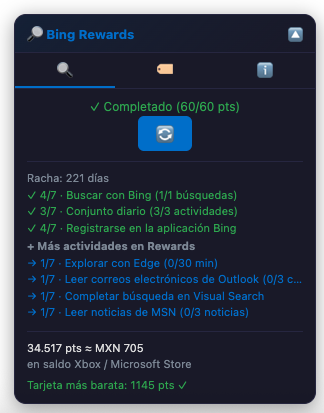
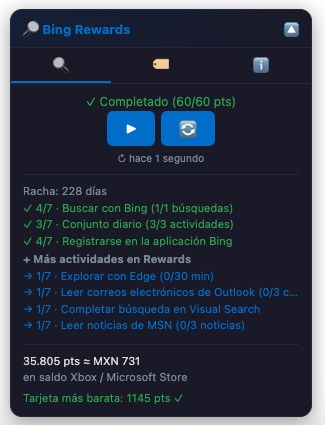
fix(bing-rewards-auto-search): relectura al recargar, edad del dato y salida manual del día completo — bump 1.3.4 -> 1.3.5
Cuatro fallos que juntos dejaban el panel clavado en «✓ Completado» sin
salida, sobre todo en el móvil:

- Recargar a mano y pulsar ▶ o 🔄 no releían si el snapshot tenía menos de
  cinco minutos. Un clic y una recarga son órdenes, no consultas, así que
  ahora releen siempre; el TTL sigue gobernando la navegación normal, que
  es para lo que existe.
- Un fetch fallido se guardaba como snapshot: satisfacía el TTL —bloqueando
  los reintentos cinco minutos— y tiraba el progreso bueno del día. Ahora
  writeSnapshot descarta lo que no venga con ok.
- El contador de puntos BAJANDO se contaba como atasco. Es Rewards
  estrenando su día: ninguna búsqueda podía superar la referencia de ayer,
  así que todas contaban, se gastaban las tres esperas y el panel avisaba
  en rojo siendo falso.
- El estado completado solo ofrecía 🔄, que releía el mismo «completo».
  Ahora ofrece también ▶: N búsquedas más contadas desde ahí, con N el
  número manual, sin tocar el conteo del día y caducando a medianoche. En
  forzado no se cuentan atascos, que ahí el contador quieto es lo esperable.

Y la edad del dato visible bajo los botones («↻ hace 12 segundos»), que es
la única forma de distinguir caché de dato fresco donde no hay consola.
Sale de Intl.RelativeTimeFormat, así que no añade ninguna cadena al
diccionario de 22 idiomas.

Changed region(s): [[0.0309, 0.0, 0.9877, 0.9879], [0.7716, 0.1162, 0.8642, 0.2034], [0.463, 0.1162, 0.5556, 0.2034]]

diff --git a/bing-rewards-auto-search.user.js b/bing-rewards-auto-search.user.js
@@ -1,7 +1,7 @@
 // ==UserScript==
 // @name         Bing Rewards Auto Search
 // @namespace    https://www.bing.com/
-// @version      1.3.4
+// @version      1.3.5
 // @description  Runs only the Bing searches you still need today: reads your Microsoft Rewards progress, does just the missing ones, stops when the day is complete, and shows what your points are worth in Xbox credit. Waits out late crediting and links the other daily tasks. Queries from your own keywords, rotating search types (70% web plus images, videos, shopping, news), 3-10s delays with 10-25s reading pauses, 22 languages. USE AT YOUR OWN RISK: automating activity may violate the Microsoft Rewards terms.
 // @author       g31w0fw0rld
 // @license      MIT
@@ -15,7 +15,7 @@
 (function () {
     'use strict';
 
-    const SCRIPT_VERSION = '1.3.4';
+    const SCRIPT_VERSION = '1.3.5';
 
     // =============================================
     // INTERNACIONALIZACION (i18n)
@@ -1263,6 +1263,11 @@
     const KEY_SEEN_POINTS = 'bing-rewards-seen-points';
     const KEY_STALL = 'bing-rewards-stall';
     const KEY_STALL_RETRY = 'bing-rewards-stall-retry';
+    // Búsquedas forzadas: la salida de mano cuando Rewards dice que el día está
+    // completo y el usuario sabe que no. Guarda el día —para que caduque solo—
+    // y el contador desde el que se forzó, que es lo que hace que ▶ signifique
+    // «busca otras N» y no «vuelve a empezar»: el contador del día no se toca.
+    const KEY_FORCE = 'bing-rewards-force';
 
     // Tope absoluto de búsquedas por día. En modo automático quien manda es la
     // API, pero si su contador se quedara congelado el bucle no tendría freno,
@@ -1363,7 +1368,20 @@
             GM_setValue(KEY_SEEN_POINTS, -1);
             GM_setValue(KEY_STALL, 0);
             GM_setValue(KEY_STALL_RETRY, 0);
+            // Forzar es cosa de un día: mañana vuelve a mandar Rewards.
+            GM_setValue(KEY_FORCE, null);
         }
+    }
+
+    /**
+     * ¿Hay búsquedas forzadas a mano HOY? Devuelve desde qué cuenta se forzó,
+     * o null. El día se comprueba aquí y no solo en `checkDailyReset` porque una
+     * pestaña abierta desde ayer no pasa por el reseteo hasta que se recarga.
+     * @returns {{day:string,from:number}|null}
+     */
+    function getForce() {
+        const f = GM_getValue(KEY_FORCE, null);
+        return (f && typeof f === 'object' && f.day === getToday()) ? f : null;
     }
 
     /**
@@ -1857,6 +1875,13 @@
     }
 
     function writeSnapshot(s) {
+        // Un fallo de red NO se guarda. Guardarlo hacía dos daños a la vez:
+        // satisfacía el TTL —o sea que bloqueaba los reintentos cinco minutos,
+        // y en el móvil el timeout de 8 s se agota con mucha más facilidad— y
+        // tiraba el progreso bueno del día, dejando el panel en modo manual sin
+        // más síntoma que un aviso gris. Sin guardarlo, la siguiente carga
+        // vuelve a encontrar el último dato bueno y lo relee en cuanto caduque.
+        if (!s || !s.ok) return;
         GM_setValue(KEY_SNAPSHOT, s);
     }
 
@@ -1871,11 +1896,37 @@
      * teléfono mostraba el estado del día anterior —racha, saldo y conjunto
      * diario incluidos— con el escritorio marcando 12/60 pendientes en el mismo
      * momento.
+     *
+     * Y no sirve tampoco si el último intento falló: guardar el fallo dejaba el
+     * panel en modo manual y sin reintentar hasta que caducara el TTL (ver
+     * `writeSnapshot`).
      * @returns {boolean}
      */
     function snapshotStale() {
-        return !rewards || rewards.day !== getToday() ||
+        return !rewards || !rewards.ok || rewards.day !== getToday() ||
             (Date.now() - rewards.at) > SNAPSHOT_TTL;
+    }
+
+    /**
+     * ¿La página se cargó porque el usuario la recargó a mano (F5, tirar hacia
+     * abajo en el móvil)?
+     *
+     * Eso es una ORDEN de releer, no una consulta, así que no puede mirar el
+     * TTL: recargar era justamente lo que el usuario hacía para salir de un
+     * «✓ Completado» heredado, y no servía de nada. Navegar por Bing sí sigue
+     * mirándolo, que es para lo que existe —si no, sería una petición por
+     * página—.
+     * @returns {boolean}
+     */
+    function reloadedByHand() {
+        try {
+            const nav = performance.getEntriesByType('navigation')[0];
+            if (nav) return nav.type === 'reload';
+            // Safari viejo (iOS < 15) no trae la entrada de navegación; el API
+            // obsoleto sigue ahí y para esto vale igual (1 === TYPE_RELOAD).
+            if (performance.navigation) return performance.navigation.type === 1;
+        } catch (e) { /* sin dato, se sigue mirando el TTL */ }
+        return false;
     }
 
     // =============================================
@@ -2014,6 +2065,20 @@
     function trackProgress(snap) {
         if (!snap || !snap.ok || !snap.search) return;
         const seen = GM_getValue(KEY_SEEN_POINTS, -1);
+        // El contador BAJANDO no es un atasco: es Rewards estrenando su día.
+        // Y no rueda a la medianoche local, sino con el reloj de Microsoft, así
+        // que basta con abrir Bing en esa franja para que la referencia se
+        // quede con los 60 puntos de ayer. A partir de ahí NINGUNA búsqueda del
+        // día puede superarla —el máximo es justo ese 60—, con lo que todas
+        // contaban como atasco: a la quinta se gastaban las tres esperas de
+        // medio minuto y el resto del día el panel avisaba en rojo de que Bing
+        // había dejado de acreditar, siendo falso.
+        if (snap.search.progress < seen) {
+            GM_setValue(KEY_SEEN_POINTS, snap.search.progress);
+            GM_setValue(KEY_STALL, 0);
+            GM_setValue(KEY_STALL_RETRY, 0);
+            return;
+        }
         if (snap.search.progress > seen) {
             GM_setValue(KEY_SEEN_POINTS, snap.search.progress);
             GM_setValue(KEY_STALL, 0);
@@ -2022,9 +2087,15 @@
             // siguiente. Sin esto, tres retrasos sueltos a lo largo del día se
             // sumarían y el tercero pararía la sesión sin motivo.
             GM_setValue(KEY_STALL_RETRY, 0);
-        } else if (seen >= 0 && GM_getValue(KEY_ACTIVE, false)) {
+        } else if (seen >= 0 && GM_getValue(KEY_ACTIVE, false) && !getForce()) {
             // Solo cuenta como atasco mientras se busca: con el panel parado es
             // normal que el contador no se mueva entre cargas.
+            //
+            // Y tampoco en forzado, donde el contador quieto no es un atasco
+            // sino lo esperable: el día está completo y por eso se forzó. Sin
+            // esta condición, una sesión pedida a mano se llevaba tres esperas
+            // de medio minuto y un aviso en rojo de que Bing dejó de acreditar,
+            // que ahí es cierto y no le sirve de nada a quien ya lo sabe.
             GM_setValue(KEY_STALL, GM_getValue(KEY_STALL, 0) + 1);
         }
     }
@@ -2048,6 +2119,14 @@
         // solo cambia el ritmo (una espera para releer) y pinta el aviso. Lo
         // único que detiene la sesión sola es completar el día o el tope de
         // seguridad de arriba.
+        // Forzado a mano: manda el número manual y NO el `complete` de la API,
+        // que es justo lo que se está sorteando. Se cuenta desde donde se forzó,
+        // así que son N búsquedas más y no N en total.
+        const forced = getForce();
+        if (forced) {
+            return (count - forced.from) >= getTotal()
+                ? { go: false, reason: 'done' } : { go: true, reason: '' };
+        }
         if (usingApi()) {
             return rewards.search.complete ? { go: false, reason: 'done' } : { go: true, reason: '' };
         }
@@ -2675,6 +2754,15 @@
             color: colors.gray, display: 'none'
         });
 
+        // Cuarta línea: la edad del dato de Rewards. En el móvil no hay
+        // consola, así que es la única forma de contestar «¿esto es de ahora o
+        // es la caché?» —la pregunta que dejó el panel clavado en 60/60—.
+        const ageText = document.createElement('div');
+        Object.assign(ageText.style, {
+            marginTop: '6px', textAlign: 'center', fontSize: '10px',
+            color: colors.gray, display: 'none'
+        });
+
         const btnRow = document.createElement('div');
         Object.assign(btnRow.style, {
             display: 'flex', gap: '6px', justifyContent: 'center'
@@ -2697,17 +2785,18 @@
         }
 
         /**
-         * Corre `next` con el progreso del día ya releído, si el que hay en
-         * memoria no sirve para decidir (ver snapshotStale).
+         * Corre `next` con el progreso del día ya releído.
          *
          * Lo usan los DOS botones con los que el usuario reconsidera el día, y
-         * hacen falta los dos: en el estado «completado» el panel no ofrece ▶,
-         * solo 🔄, así que sin esto de un «completado» heredado de ayer no se
-         * sale más que recargando la página. Releer no gasta una búsqueda.
+         * releen SIEMPRE, sin mirar el TTL: un clic es una orden. Mirándolo, de
+         * un «✓ Completado» heredado no se salía durante los cinco minutos
+         * siguientes —el estado completado no ofrece ▶, solo 🔄, y 🔄 repintaba
+         * la misma caché—, que es el mismo encierro de 1.3.4 con otra cerradura.
+         * Releer no gasta una búsqueda.
          * @param {function} next
          */
         function withFreshRewards(next) {
-            if (!getAuto() || !snapshotStale()) { next(); return; }
+            if (!getAuto()) { next(); return; }
             requestRewards().then((snap) => {
                 rewards = snap;
                 writeSnapshot(snap);
@@ -2732,6 +2821,28 @@
             });
         }
 
+        /**
+         * Arranca una sesión saltándose el «completado» de Rewards: N búsquedas
+         * más contadas desde ahora, con N el número manual de la pestaña ⚙.
+         *
+         * Releer primero no sobra: casi siempre el «completado» es de verdad y
+         * el usuario está viendo dato viejo, y en ese caso lo que quiere es el
+         * dato bueno, no gastar veinte búsquedas. Si tras releer sigue completo,
+         * el ▶ que pulsó ya dejó el forzado puesto y la sesión sale igual.
+         */
+        function forceSession() {
+            withFreshRewards(() => {
+                GM_setValue(KEY_FORCE, { day: getToday(), from: GM_getValue(KEY_COUNT, 0) });
+                // Forzar es soltar todos los frenos del día, como reiniciar: si
+                // quedó marcado como atascado, el primer paso serían tres
+                // esperas de medio minuto antes de buscar nada.
+                GM_setValue(KEY_STALL, 0);
+                GM_setValue(KEY_STALL_RETRY, 0);
+                GM_setValue(KEY_ACTIVE, true);
+                executeNextSearch(updateUI);
+            });
+        }
+
         /** Detiene la sesión activa. */
         function stopSession() {
             GM_setValue(KEY_ACTIVE, false);
@@ -2748,10 +2859,31 @@
             // reintentos, que si no el primer atasco pararía la sesión en seco.
             GM_setValue(KEY_STALL, 0);
             GM_setValue(KEY_STALL_RETRY, 0);
+            // Y el forzado, que si no el contador a cero se leería contra el
+            // punto desde el que se forzó y el panel arrancaría en negativo.
+            GM_setValue(KEY_FORCE, null);
             if (searchTimeout) clearTimeout(searchTimeout);
-            // Reiniciar es también la única salida del estado «completado», que
-            // es donde un dato viejo encierra al panel: de ahí la relectura.
+            // Reiniciar vuelve a poner a Rewards al mando, así que relee: es el
+            // camino de vuelta del forzado al automático.
             withFreshRewards(() => updateUI(0, false, ''));
+        }
+
+        /**
+         * Edad del dato de Rewards, en el idioma del panel y SIN cadenas nuevas:
+         * Intl.RelativeTimeFormat ya sabe decir «hace 12 segundos» en los 22
+         * idiomas del script, así que esto no pasa por el diccionario.
+         * @param {number} at - Sello del snapshot (Date.now() de su lectura).
+         */
+        function ago(at) {
+            const secs = Math.max(0, Math.round((Date.now() - at) / 1000));
+            const [n, unit] = secs < 60 ? [secs, 'second']
+                : secs < 3600 ? [Math.round(secs / 60), 'minute']
+                : [Math.round(secs / 3600), 'hour'];
+            try {
+                return new Intl.RelativeTimeFormat(LANG, { numeric: 'auto' }).format(-n, unit);
+            } catch (e) {
+                return `-${n} ${unit}`;
+            }
         }
 
         /** Números con el separador de miles del idioma del panel. */
@@ -2776,17 +2908,32 @@
          */
         function updateUI(count, active, reason) {
             btnRow.innerHTML = '';
-            const api = usingApi();
+            // Forzado se pinta como el modo manual: lo que gobierna es el número
+            // de búsquedas, no los puntos. Enseñar «60/60 pts» mientras busca a
+            // propósito por encima de eso, con un estimado de «~0 restantes»,
+            // sería el panel contradiciéndose a sí mismo.
+            const forced = getForce();
+            const api = usingApi() && !forced;
             const s = api ? rewards.search : null;
             const total = getTotal();
-            const done = api ? s.complete : count >= total;
-            const progress = api ? `${fmt(s.progress)}/${fmt(s.max)} ${t.pointsShort}` : `${count}/${total}`;
+            const local = count - (forced ? forced.from : 0);
+            const done = api ? s.complete : local >= total;
+            const progress = api ? `${fmt(s.progress)}/${fmt(s.max)} ${t.pointsShort}` : `${local}/${total}`;
 
             hintText.style.display = 'none';
             // Por setTipText y no por `title` directo: este repintado corre en cada
             // búsqueda y puede pillar el ratón encima de la pista, con su aviso ya
             // abierto (ver la sección TOOLTIP PROPIO).
             setTipText(hintText, '');
+
+            // Va antes de cualquier return de esta función: el estado que más
+            // necesita saber la edad del dato es justo el que corta arriba.
+            if (rewards && rewards.ok) {
+                ageText.textContent = `↻ ${ago(rewards.at)}`;
+                ageText.style.display = 'block';
+            } else {
+                ageText.style.display = 'none';
+            }
 
             /** Aviso bajo el progreso: estimado si sigue, motivo si paró. */
             function hint(text, tip, color) {
@@ -2808,6 +2955,13 @@
             if (done) {
                 statusText.textContent = `✓ ${t.completed} (${progress})`;
                 statusText.style.color = colors.green;
+                // ▶ TAMBIÉN en completado, y es la única salida de mano que hay
+                // cuando Rewards dice que el día está hecho y el usuario sabe
+                // que no: antes el estado terminal solo ofrecía 🔄, que releía
+                // el mismo «completo» y volvía aquí. Reutiliza la etiqueta y el
+                // aviso de ▶ a propósito, para no meter una cadena nueva en los
+                // 22 idiomas por un botón que hace lo mismo que dice: buscar.
+                btnRow.appendChild(createActionBtn(t.start, t.startTooltip, colors.primary, forceSession));
                 btnRow.appendChild(createActionBtn(t.restart, t.restartTooltip, colors.primary, restartCounter));
             } else if (active) {
                 statusText.textContent = `${t.searching}... ${progress}`;
@@ -3084,6 +3238,7 @@
         searchTab.pane.appendChild(statusText);
         searchTab.pane.appendChild(hintText);
         searchTab.pane.appendChild(btnRow);
+        searchTab.pane.appendChild(ageText);
         searchTab.pane.appendChild(tasksBox);
         searchTab.pane.appendChild(valueBox);
 
@@ -3455,10 +3610,11 @@
         updateUI(count, active, '');
 
         // Con sesión activa se relee siempre: cada carga de página es una
-        // búsqueda hecha y el progreso de hace un minuto ya no vale. Parado,
+        // búsqueda hecha y el progreso de hace un minuto ya no vale. Y con una
+        // recarga a mano también, que es una orden explícita. Navegando parado
         // basta el snapshot mientras esté fresco, para no lanzar una petición
-        // por cada página de Bing que se visite navegando normalmente.
-        const needsFetch = getAuto() && (active || snapshotStale());
+        // por cada página de Bing que se visite.
+        const needsFetch = getAuto() && (active || reloadedByHand() || snapshotStale());
 
         if (needsFetch) {
             requestRewards().then(snap => {

diff --git a/README.md b/README.md
@@ -5,7 +5,7 @@ Tampermonkey userscript that automates daily Bing searches to collect Microsoft 
 > [!WARNING]
 > **USE AT YOUR OWN RISK / USO BAJO TU PROPIO RIESGO:** automating activity may violate the Microsoft Rewards terms and put your account at risk. / Automatizar la actividad puede infringir los términos de Microsoft Rewards y poner tu cuenta en riesgo.
 
-<img src="docs/screenshot-search.png" width="330" alt="The search tab of the floating panel: the day paused at 33 of 60 points, the day's tasks with the 221-day streak, the check-in partners with their streak step, the daily set with its three pending activities as links, and the points balance converted to Xbox credit">
+<img src="docs/screenshot-search.png" width="330" alt="The search tab of the floating panel: the day complete at 60 of 60 points, with the start button still offered to search anyway and a line saying how long ago the Rewards data was read, the day's tasks with the journey counter, the check-in partners with the step each streak is on, and the points balance converted to Xbox credit">
 
 *Search tab: the day's progress in points as Rewards counts it, the controls for the current state, the day's tasks — your streak, each check-in partner with its step, and the daily set with a link to every activity still pending — and what your points are worth. / Pestaña de búsqueda: el progreso del día en puntos, tal como los cuenta Rewards, los controles según el estado, las tareas del día —tu racha, cada socio del check-in con su paso, y el conjunto diario con enlace a cada actividad que falte— y cuánto valen tus puntos.*
 
@@ -27,7 +27,8 @@ Tampermonkey userscript that automates daily Bing searches to collect Microsoft 
 - **It does not trust its own arithmetic.** The "searches left" figure is an estimate: Rewards counts in points, not searches, and several markets do not credit the first searches of the day, so the estimate runs low. The decision to stop therefore comes from Rewards' own *complete* flag, never from the estimate.
 - **Late crediting does not end the run.** If several searches in a row go by without the Rewards counter moving, it is almost always latency — the points arrive, just late. So the script waits half a minute, re-reads your progress without spending a search, and carries on until the day is complete, however many searches that takes. The panel says so while it waits, and ⏹ is always there if you would rather stop. Behind all of it there is an absolute daily cap, as a last resort.
 - **The manual number is the fallback:** 1 to 100, set with the ⚙ button (20 by default). It takes over whenever there is no Rewards session, and it is the only thing that counts if you clear the checkbox.
-- **Start, continue, stop and restart.** The controls change with the state: a paused run offers *continue* and *restart*, a finished one only *restart*.
+- **Start, continue, stop and restart.** The controls change with the state: a paused run offers *continue* and *restart*; a finished one offers *restart* and *start* again — the way out for when Rewards says the day is done and you know it is not. Start on a finished day re-reads your progress first and then runs another batch of the manual size, counted from there, without touching the day's own count. It lapses at midnight on its own.
+- **You can always see how old the number is.** Under the controls, a line says when your Rewards progress was read — «12 seconds ago». Reloading the page and pressing a button both re-read it, always, so a "day complete" left over from earlier can no longer lock the panel with no way out. That was what got phones stuck showing 60/60.
 - **Progress survives reloads.** Each search is a real navigation, so the counter lives in storage rather than in the page — closing the tab or navigating away does not lose your place.
 - **The counter resets on its own each day at midnight,** which is when Rewards resets too.
 
@@ -75,7 +76,8 @@ Tampermonkey userscript that automates daily Bing searches to collect Microsoft 
 - **No se fía de su propia cuenta.** El número de «búsquedas restantes» es un estimado: Rewards cuenta en puntos, no en búsquedas, y en varios mercados las primeras del día no acreditan, así que el estimado se queda corto. Por eso la decisión de parar la toma la marca *complete* de Rewards, nunca el estimado.
 - **Que acrediten tarde no acaba la corrida.** Si pasan varias búsquedas seguidas sin que suba el contador de Rewards, casi siempre es latencia: los puntos llegan, solo que tarde. Así que el script espera medio minuto, vuelve a leer tu progreso sin gastar una búsqueda y sigue hasta completar el día, le lleve las búsquedas que le lleve. El panel lo dice mientras espera, y ⏹ está ahí siempre que prefieras cortar. Detrás de todo eso hay además un tope diario absoluto, como último recurso.
 - **El número manual es el suplente:** de 1 a 100, con el botón ⚙ (20 por defecto). Toma el mando siempre que no haya sesión de Rewards, y es lo único que cuenta si desmarcas la casilla.
-- **Iniciar, continuar, detener y reiniciar.** Los controles cambian según el estado: una corrida en pausa ofrece *continuar* y *reiniciar*, una terminada solo *reiniciar*.
+- **Iniciar, continuar, detener y reiniciar.** Los controles cambian según el estado: una corrida en pausa ofrece *continuar* y *reiniciar*; una terminada ofrece *reiniciar* e *iniciar* otra vez — la salida para cuando Rewards dice que el día está hecho y tú sabes que no. Iniciar sobre un día terminado relee primero tu progreso y luego hace otra tanda del tamaño manual, contada desde ahí y sin tocar el conteo del día. Caduca solo a medianoche.
+- **Siempre se ve de cuándo es el número.** Bajo los controles, una línea dice cuándo se leyó tu progreso de Rewards: «hace 12 segundos». Recargar la página y pulsar un botón lo releen siempre, así que un «día completo» heredado ya no puede dejar el panel encerrado sin salida. Eso era lo que dejaba los móviles clavados en 60/60.
 - **El progreso sobrevive a las recargas.** Cada búsqueda es una navegación real, así que el contador vive en el almacenamiento y no en la página — cerrar la pestaña o irte a otro sitio no pierde tu avance.
 - **El contador se reinicia solo cada día a medianoche,** que es cuando Rewards también se reinicia.
 
